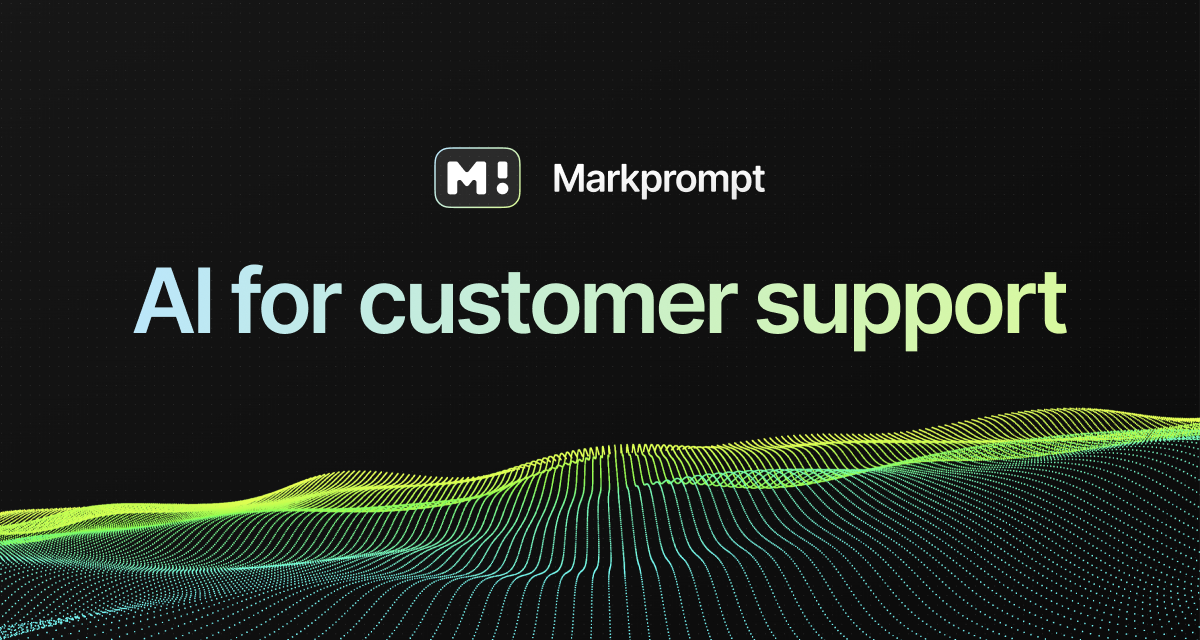
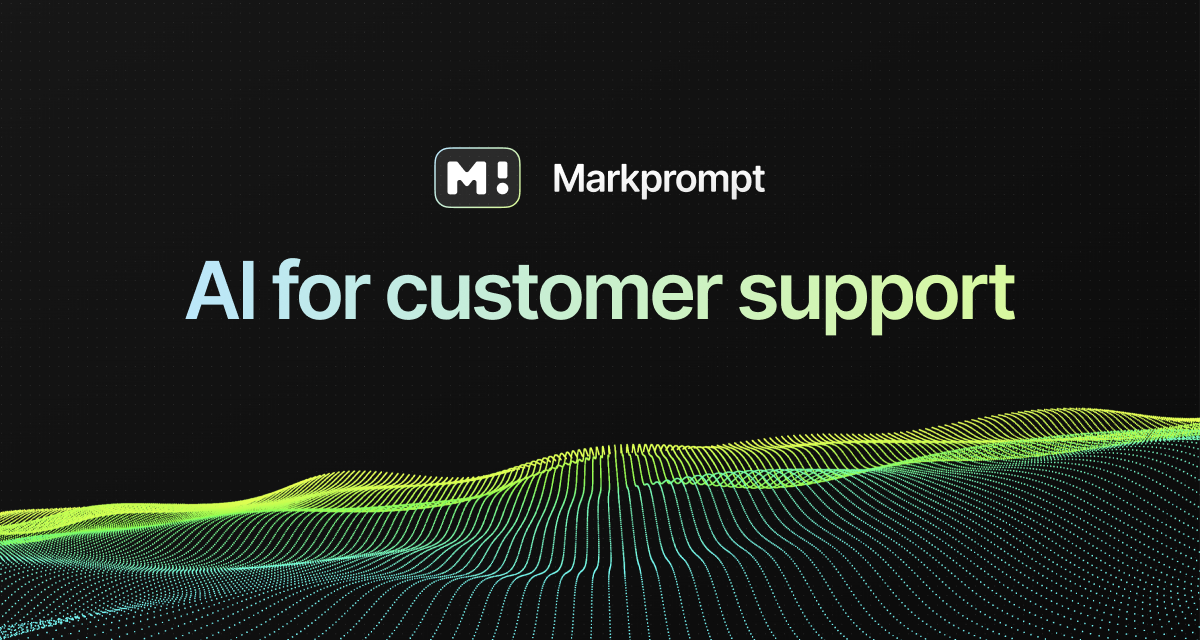
SEO updates

Changed region(s): [[0.0925, 0.4062, 0.8942, 0.5625]]

diff --git a/components/pages/SharedHead.tsx b/components/pages/SharedHead.tsx
@@ -30,7 +30,7 @@ export const SharedHead: FC<SharedHeadProps> = ({
   exludePostfixFromTitle,
 }) => {
   const _ogImage = ogImage ?? 'https://markprompt.com/static/cover.png';
-  const _description = description ?? 'AI infrastructure for customer support';
+  const _description = description ?? 'AI for customer support';
   return (
     <Head>
       <title>

diff --git a/components/pages/Landing.tsx b/components/pages/Landing.tsx
@@ -37,7 +37,7 @@ const LandingPage: FC<LandingPageProps> = ({ stars, status }) => {
   return (
     <>
       <SharedHead
-        title="Markprompt | AI infrastructure for customer support"
+        title="Markprompt | AI for customer support"
         exludePostfixFromTitle
       />
       <Hero onContactDialogOpen={() => setContactDialogOpen(true)} />

diff --git a/components/pages/LandingBubbles.tsx b/components/pages/LandingBubbles.tsx
@@ -87,7 +87,7 @@ const LandingPage: FC<LandingPageProps> = ({ stars, status }) => {
   return (
     <>
       <SharedHead
-        title="Markprompt | AI infrastructure for customer support"
+        title="Markprompt | AI for customer support"
         exludePostfixFromTitle
       />
       {/* <div className="z-40 bg-fuchsia-700 py-1.5 px-6 sm:px-8">

diff --git a/README.md b/README.md
@@ -1,5 +1,5 @@
 <a href="https://markprompt.com">
-  <img alt="Markprompt – AI infrastructure for customer support" src="https://raw.githubusercontent.com/motifland/markprompt/main/public/static/cover.png">
+  <img alt="Markprompt – AI for customer support" src="https://raw.githubusercontent.com/motifland/markprompt/main/public/static/cover.png">
   <h1 align="center">Markprompt</h1>
 </a>
 
